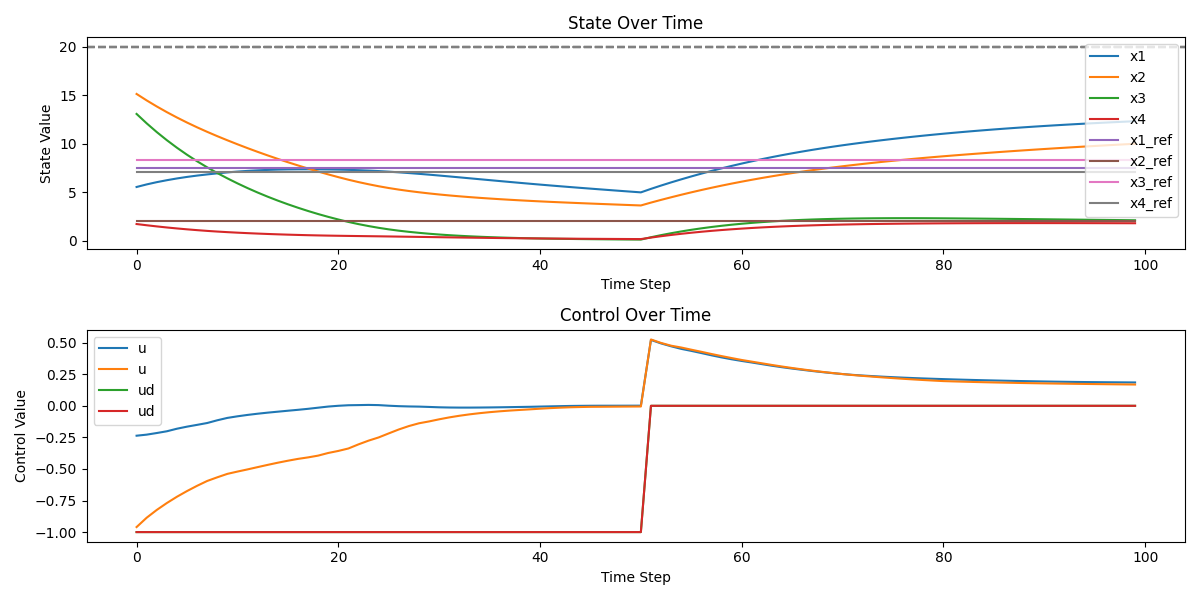
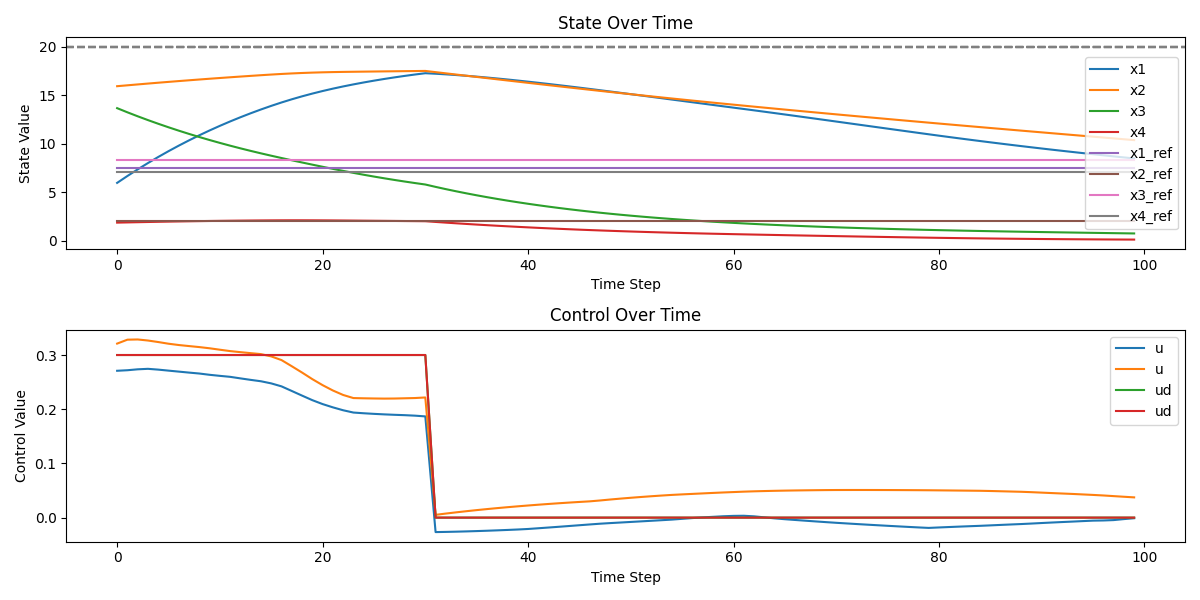
add some conditions

diff --git a/learning-qp-master/src/psf/integrated_env_creators.py b/learning-qp-master/src/psf/integrated_env_creators.py
@@ -96,10 +96,12 @@ class Integrated_env:
         random_values = torch.rand(self.bs, self.m, device=self.device)  # 形状为 (self.bs, self.m)，值在 [0, 1) 范围内
         ud_random = self.u_min + (self.u_max - self.u_min) * random_values  # 形状为 (self.bs, self.m)
         
-        # 根据 self.ud_type 的值选择不同的行为
-        ud = torch.where(self.ud_type == 0, ud_lqr, 
-                        torch.where(self.ud_type == 1, ud_bb, ud_random))
-        
+        if self.env_name == "tank":
+            # 根据 self.ud_type 的值选择不同的行为
+            ud = torch.where(self.ud_type == 0, ud_lqr, 
+                            torch.where(self.ud_type == 1, ud_bb, ud_random))
+        else:
+            ud = ud_lqr    
         return ud
 
     def get_ud(self, obs):
@@ -111,7 +113,7 @@ class Integrated_env:
         elif self.train_or_test == "test":    
             # bang-bang control (使用 torch.where 来向量化条件操作
             # ud = torch.where(theta >= 0.2, torch.full_like(theta, self.u_max), torch.where(theta <= -0.2, torch.full_like(theta, self.u_min), torch.zeros_like(theta)))
-            ud = torch.where((self.step_count <= 50).unsqueeze(1), torch.full_like(self.ud, -1),  torch.zeros_like(self.ud))
+            ud = torch.where((self.step_count <= 30).unsqueeze(1), torch.full_like(self.ud, 0.3),  torch.zeros_like(self.ud))
             
             # LQR control
             # noise = 5
@@ -204,7 +206,7 @@ class Integrated_env:
             # coef_terminate = 100000.
             # zero_deviation_reward = 100.
         elif self.env_name == "tank":
-            coef_safety = -400.0
+            coef_safety = -1000.0
             coef_deviation = -500.0
             coef_survival = 100.0  
             coef_terminate = -1000000.
